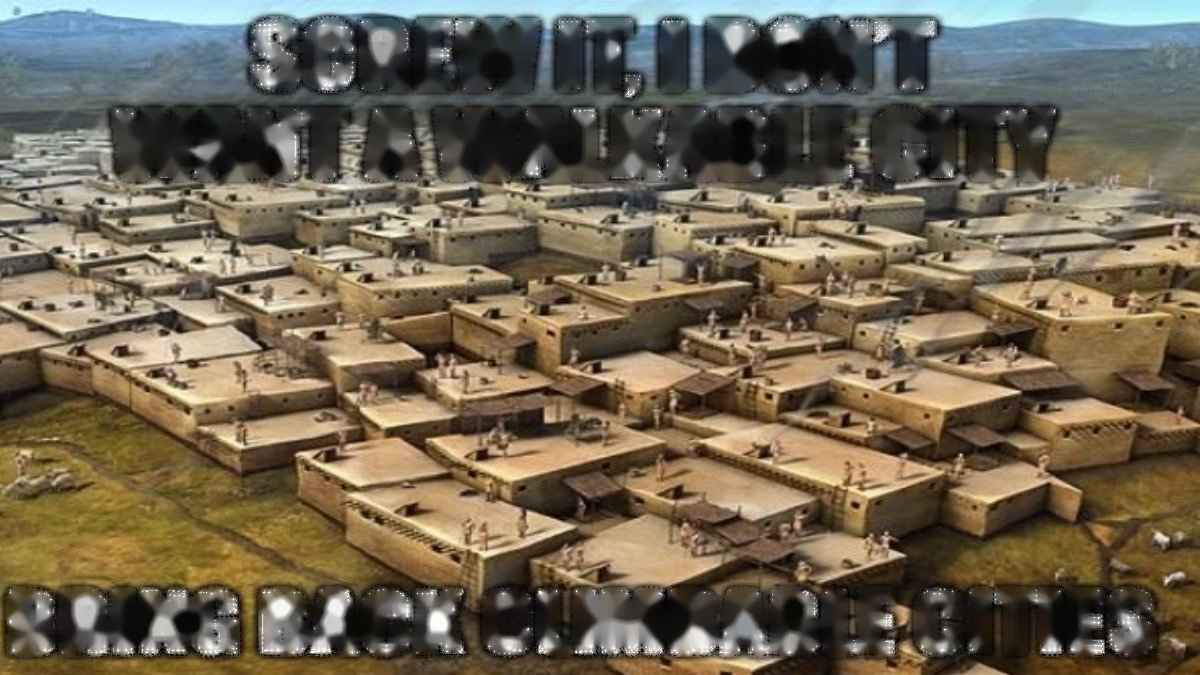
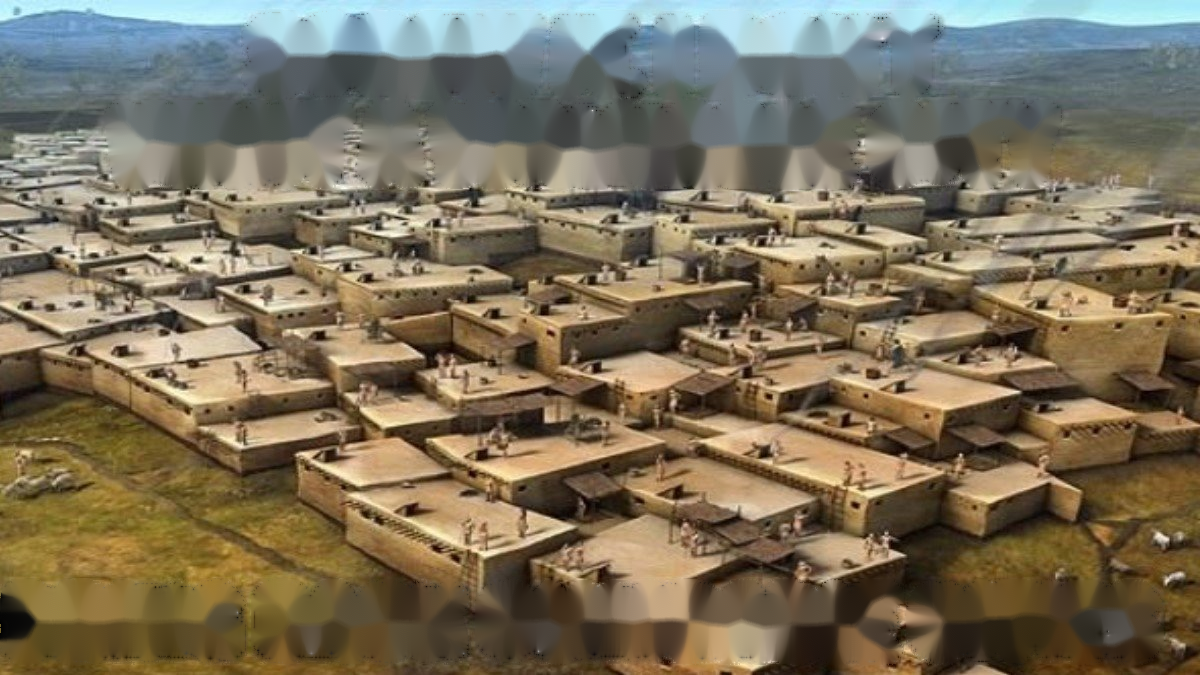
fixed shifting, needs cleanup code

Changed region(s): [[0.0925, 0.0, 0.8942, 0.28], [0.0, 0.84, 0.9867, 0.9956]]

diff --git a/clean_text.py b/clean_text.py
@@ -30,24 +30,48 @@ def apply_shifts(mask, shift_amount):
     #horizontal, vertical, diagonal shifts
     shifts = [(offset_x, offset_y) for offset_x in (0, shift_amount, -shift_amount) 
                    for offset_y in (0, shift_amount, -shift_amount)]
+    ih, iw = mask.shape
+    for offset in shifts:
+        ox, oy = offset
+        _mask = mask.copy()
 
-    final_mask = np.zeros_like(mask)
-    for offset_x, offset_y in shifts:
-        shifted_mask = np.roll(mask, shift=(offset_x, offset_y), axis=(0, 1))
-        final_mask = np.clip(final_mask + shifted_mask, 0, 1)
-    return final_mask
+        slice_y = slice(max(0, 0 + oy), min(ih, ih + oy))
+        slice_x = slice(max(0, 0 + ox), min(iw, iw + ox))
+        print(slice_y, slice_x)
+        _mask = _mask[
+            max(0, 0 + oy): min(ih, ih + oy),
+            max(0, 0 + ox): min(iw, iw + ox)
+        ]
+        crop_pad = [
+            (max(0, -oy), max(0, oy)),
+            (max(0, -ox), max(0, ox))
+        ]
+        _mask = np.pad(_mask, crop_pad)
+        mask = np.clip(_mask + mask, 0, 1)
+
+    # final_mask = np.zeros_like(mask)
+    # for offset_x, offset_y in shifts:
+    #     shifted_mask = np.roll(mask, shift=(offset_x, offset_y), axis=(0, 1))
+    #     final_mask = np.clip(final_mask + shifted_mask, 0, 1)
+    return mask
 
 
-def get_text_mask(image, coordinates_to_mask):
+def get_text_mask(image, coordinates_to_mask, pad_crop=5):
     # Create a mask image with image_size
     text_mask = np.zeros_like(image[:, :, 0])
     for coordinates in coordinates_to_mask:
         xmin, ymin, xmax, ymax = coordinates
+        
+        ymin = max(ymin - pad_crop, 0)
+        xmin = max(xmin - pad_crop, 0)
+        ymax = min(ymax + pad_crop, image.shape[0])
+        xmax = min(xmax + pad_crop, image.shape[1])
+        
         bbox = image[ymin : ymax, xmin : xmax, :]
         white_text = (bbox > 250).all(axis=-1)
         text_mask[ymin : ymax, xmin : xmax] = white_text
     
-    shifted_mask = apply_shifts(text_mask, 5)
+    shifted_mask = apply_shifts(text_mask, 4)
     image[shifted_mask == 1] = 0
     shifted_mask *= 255
     print('done text mask')
@@ -64,7 +88,7 @@ def get_image_inpainted(image, image_mask):
 
 if __name__ == "__main__":   
     # image_path = '/home/ubuntu/shared/ospc/img/0002.png'
-    image_path = '/home/ubuntu/20nguyen.hk/ospc/img/english.png'
+    image_path = '/home/ubuntu/20nguyen.hk/test_imgs/english.png'
     im = cv2.imread(image_path)
     cv2.imwrite("original_image.png", im)
     text, coordinates = get_meme_text(image=im)
